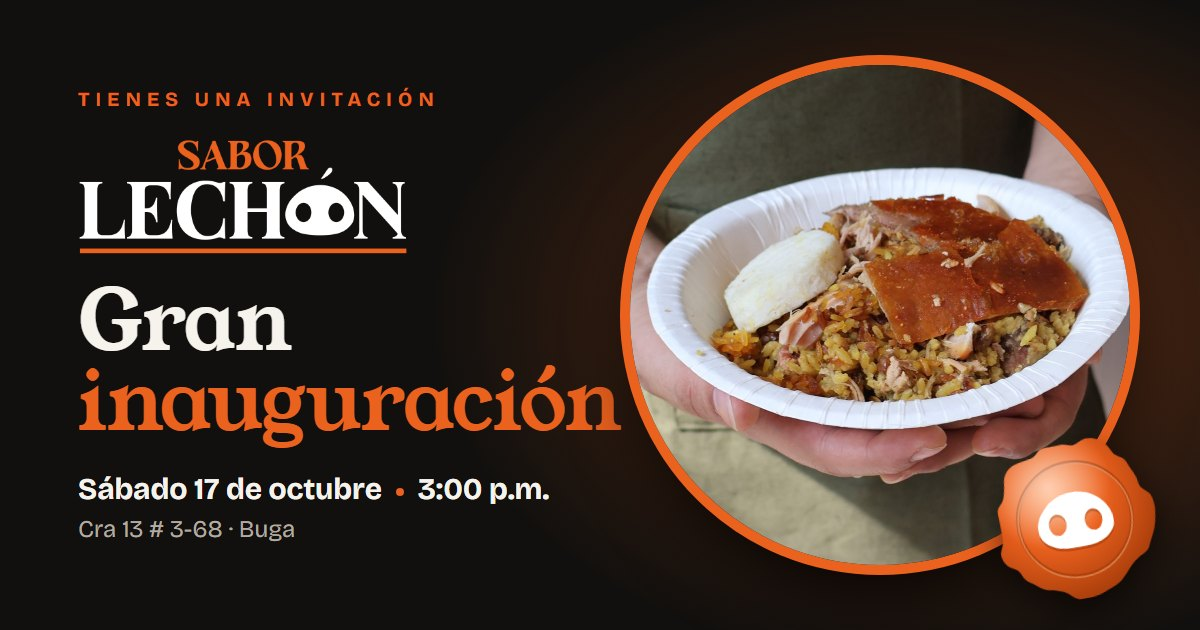
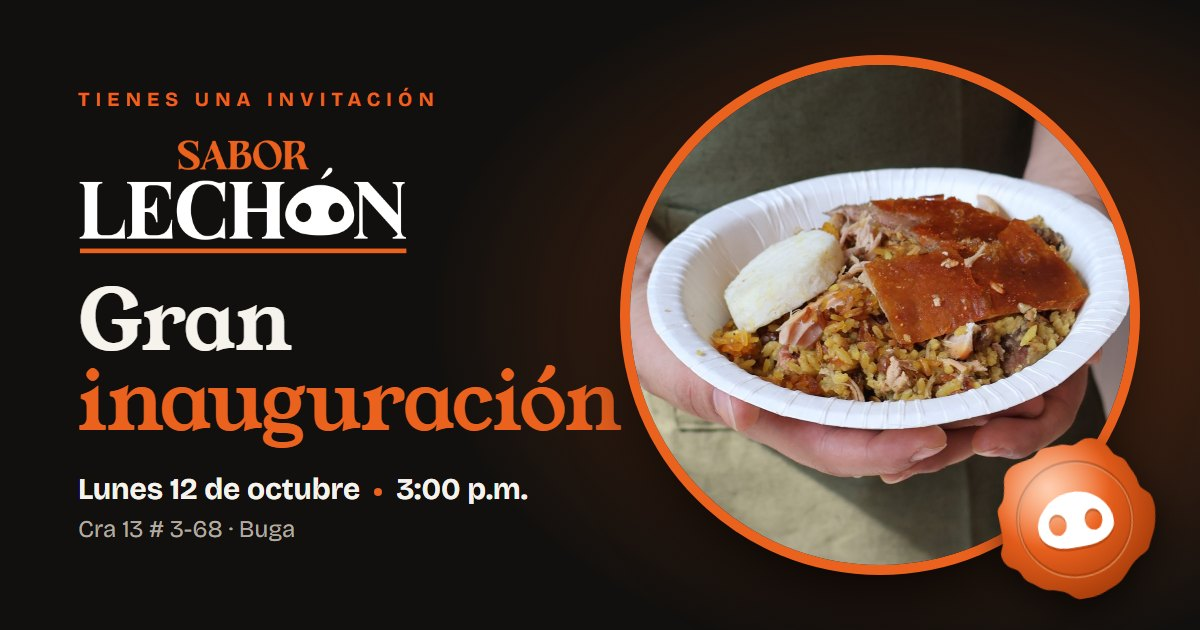
Invitación: Sabor Lechón (fecha al lunes 12 oct)

Changed region(s): [[0.0617, 0.754, 0.4625, 0.8143]]

diff --git a/sabor-lechon/inauguracion/index.html b/sabor-lechon/inauguracion/index.html
@@ -5,14 +5,14 @@
 <meta name="viewport" content="width=device-width, initial-scale=1, viewport-fit=cover">
 <title>Gran inauguración · Sabor Lechón</title>
 <link rel="icon" href="/logo.ico" sizes="any">
-<meta name="description" content="Sabor Lechón te invita a su gran inauguración: sábado 17 de octubre, 3:00 p.m. Cra 13 # 3-68, Buga.">
+<meta name="description" content="Sabor Lechón te invita a su gran inauguración: lunes 12 de octubre, 3:00 p.m. Cra 13 # 3-68, Buga.">
 <meta name="robots" content="noindex, nofollow">
 <meta name="theme-color" content="#12100E">
 
 <meta property="og:type" content="website">
 <meta property="og:locale" content="es_CO">
 <meta property="og:title" content="Te invitamos a la gran inauguración de Sabor Lechón">
-<meta property="og:description" content="Sábado 17 de octubre · 3:00 p.m. · Cra 13 # 3-68, Buga">
+<meta property="og:description" content="Lunes 12 de octubre · 3:00 p.m. · Cra 13 # 3-68, Buga">
 <meta property="og:url" content="https://cotizaciones.blackmouth.agency/sabor-lechon/inauguracion/">
 <meta property="og:image" content="https://cotizaciones.blackmouth.agency/sabor-lechon/inauguracion/og.jpg">
 <meta property="og:image:width" content="1200">
@@ -512,7 +512,7 @@ button{font:inherit;color:inherit;cursor:pointer}
       <circle cx="50" cy="50" r="46" fill="none" stroke="currentColor" stroke-width="2.4"/>
       <circle cx="50" cy="50" r="29" fill="none" stroke="currentColor" stroke-width="1.4"/>
       <text><textPath href="#pm-arc" textLength="228" lengthAdjust="spacing">INAUGURACIÓN · SABOR LECHÓN · BUGA ·</textPath></text>
-      <text x="50" y="47" text-anchor="middle" style="font-size:13px;letter-spacing:.5px">17·10</text>
+      <text x="50" y="47" text-anchor="middle" style="font-size:13px;letter-spacing:.5px">12·10</text>
       <text x="50" y="61" text-anchor="middle" style="font-size:9px">2026</text>
     </svg>
     <button class="seal" id="seal" type="button" aria-label="Romper el sello y abrir la invitación">
@@ -545,14 +545,14 @@ button{font:inherit;color:inherit;cursor:pointer}
       </button>
       <p class="hero__lead">te invita a su</p>
       <h1 class="hero__title"><span class="t1">Gran</span><span class="t2">inauguración</span></h1>
-      <p class="hero__pill">Sáb 17 oct <i></i> 3:00 p.m. <i></i> Buga</p>
+      <p class="hero__pill">Lun 12 oct <i></i> 3:00 p.m. <i></i> Buga</p>
       <div class="cue" aria-hidden="true"><svg><use href="#snout"/></svg>Desliza</div>
     </div>
 
     <div class="hero__date" aria-hidden="true">
-      <span class="hd__day" id="hdDay">17</span>
+      <span class="hd__day" id="hdDay">12</span>
       <span class="hd__month" id="hdMonth">Octubre</span>
-      <span class="hd__meta" id="hdMeta">Sábado <i></i> 3:00 p.m.</span>
+      <span class="hd__meta" id="hdMeta">Lunes <i></i> 3:00 p.m.</span>
     </div>
     <div class="hero__wipe" id="heroWipe"></div>
   </div>
@@ -579,7 +579,7 @@ button{font:inherit;color:inherit;cursor:pointer}
       <div class="cd"><span class="cd__n" id="cd-m">00</span><span class="cd__l">Min</span></div>
       <div class="cd"><span class="cd__n" id="cd-s">00</span><span class="cd__l">Seg</span></div>
     </div>
-    <p class="count__date reveal"><strong>Sábado 17 de octubre de 2026</strong> · 3:00 p.m.</p>
+    <p class="count__date reveal"><strong>Lunes 12 de octubre de 2026</strong> · 3:00 p.m.</p>
   </div>
 </section>
 
@@ -610,8 +610,8 @@ button{font:inherit;color:inherit;cursor:pointer}
             <span class="ch ch--sm" style="--i:0">La</span>
             <span class="ch ch--title" style="--i:1">INAUGURACIÓN</span>
             <span class="ch ch--orn" style="--i:2"><svg viewBox="0 0 200 12" preserveAspectRatio="none"><path d="M2 6h78M120 6h78M88 6c4-6 8-6 12 0s8 6 12 0M100 1v10"/></svg></span>
-            <span class="ch ch--script" style="--i:3">sábado</span>
-            <span class="ch ch--day" style="--i:4">17</span>
+            <span class="ch ch--script" style="--i:3">lunes</span>
+            <span class="ch ch--day" style="--i:4">12</span>
             <span class="ch ch--month" style="--i:5">DE OCTUBRE</span>
             <span class="ch ch--hour" style="--i:6">3:00 P.M.</span>
             <span class="ch ch--small" style="--i:7">y por supuesto...</span>
@@ -638,7 +638,7 @@ button{font:inherit;color:inherit;cursor:pointer}
     <span class="w--o">Dorado</span><i class="wall__dot"></i><span class="w--t">Raíz</span><img class="pill" src="media/pared.jpg" alt="" loading="lazy"><span class="w--line">Fuego</span><i class="wall__dot"></i><span class="w--o">Dorado</span><i class="wall__dot"></i><span class="w--t">Raíz</span><img class="pill" src="media/fachada.jpg" alt="" loading="lazy"><span class="w--line">Fuego</span>
   </div>
   <div class="wall__row" data-speed="-1" aria-hidden="true">
-    <span class="w--t">Lechón</span><i class="wall__dot"></i><span class="w--o">17·10</span><i class="wall__dot"></i><span class="w--line">Buga</span><img class="pill" src="media/mostrador.jpg" alt="" loading="lazy"><span class="w--t">Lechón</span><i class="wall__dot"></i><span class="w--o">17·10</span><i class="wall__dot"></i><span class="w--line">Buga</span>
+    <span class="w--t">Lechón</span><i class="wall__dot"></i><span class="w--o">12·10</span><i class="wall__dot"></i><span class="w--line">Buga</span><img class="pill" src="media/mostrador.jpg" alt="" loading="lazy"><span class="w--t">Lechón</span><i class="wall__dot"></i><span class="w--o">12·10</span><i class="wall__dot"></i><span class="w--line">Buga</span>
   </div>
 </section>
 
@@ -676,13 +676,13 @@ button{font:inherit;color:inherit;cursor:pointer}
           <div class="ticket__head"><img src="media/logo.png" alt="Sabor Lechón" loading="lazy"><span>Pase de<br>inauguración</span></div>
           <dl class="ticket__grid">
             <div><dt>Invitado</dt><dd id="ticketName">Tú</dd></div>
-            <div><dt>Fecha</dt><dd>Sáb 17 oct</dd></div>
+            <div><dt>Fecha</dt><dd>Lun 12 oct</dd></div>
             <div><dt>Hora</dt><dd>3:00 p.m.</dd></div>
             <div><dt>Lugar</dt><dd>Cra 13 # 3-68, Buga</dd></div>
           </dl>
         </div>
         <div class="ticket__stub">
-          <span class="stub__no"><small>Pase</small>Nº 17·10·26</span>
+          <span class="stub__no"><small>Pase</small>Nº 12·10·26</span>
           <span class="barcode" aria-hidden="true"></span>
         </div>
         <svg class="stamp" viewBox="0 0 120 120" aria-hidden="true">
@@ -770,7 +770,7 @@ button{font:inherit;color:inherit;cursor:pointer}
 
 <footer class="foot">
   <img src="media/logo.png" alt="Sabor Lechón" loading="lazy">
-  <p>Te esperamos el sábado 17 de octubre a las 3:00 p.m. en la Cra 13 # 3-68, Buga.</p>
+  <p>Te esperamos el lunes 12 de octubre a las 3:00 p.m. en la Cra 13 # 3-68, Buga.</p>
   <div class="socials">
     <a href="https://www.instagram.com/sabor_lechon" rel="noopener" aria-label="Instagram de Sabor Lechón"><svg class="ico"><use href="#i-ig"/></svg></a>
     <a href="https://www.tiktok.com/@sabor_lechon" rel="noopener" aria-label="TikTok de Sabor Lechón"><svg class="ico"><use href="#i-tt"/></svg></a>
@@ -800,8 +800,8 @@ const easeIO = t => t < .5 ? 4 * t * t * t : 1 - Math.pow(-2 * t + 2, 3) / 2;
 
 /* ---------- Datos del evento ---------- */
 const EVENTO = {
-  inicio: new Date('2026-10-17T15:00:00-05:00'),
-  fin: new Date('2026-10-17T21:00:00-05:00'),
+  inicio: new Date('2026-10-12T15:00:00-05:00'),
+  fin: new Date('2026-10-12T21:00:00-05:00'),
   titulo: 'Gran inauguración de Sabor Lechón',
   lugar: 'Sabor Lechón, Cra 13 # 3-68, Guadalajara de Buga, Valle del Cauca',
   maps: 'https://www.google.com/maps/place/Sabor+Lech%C3%B3n/@3.8970245,-76.304268,17z/data=!3m1!4b1!4m6!3m5!1s0x8e39e70030306611:0x8525509f26263bfc!8m2!3d3.8970245!4d-76.3016931!16s%2Fg%2F11nvzkjx_q',
@@ -1323,7 +1323,7 @@ $('#ics').addEventListener('click', () => {
   const ics = [
     'BEGIN:VCALENDAR', 'VERSION:2.0', 'PRODID:-//Sabor Lechon//Inauguracion//ES', 'CALSCALE:GREGORIAN', 'METHOD:PUBLISH',
     'BEGIN:VEVENT',
-    'UID:inauguracion-20261017@saborlechon',
+    'UID:inauguracion-20261012@saborlechon',
     'DTSTAMP:' + fmt(new Date()),
     'DTSTART:' + fmt(EVENTO.inicio),
     'DTEND:' + fmt(calFin),
@@ -1389,12 +1389,12 @@ $('#rsvp').addEventListener('submit', e => {
   const nombre = needName();
   if (!nombre) return;
   const quienes = n === 1 ? 'Voy yo.' : 'Vamos ' + n + ' personas.';
-  goWhatsApp('¡Hola, Sabor Lechón! Soy ' + nombre + '. Confirmo mi asistencia a la gran inauguración del sábado 17 de octubre a las 3:00 p.m. ' + quienes, e.submitter || $('.cta'));
+  goWhatsApp('¡Hola, Sabor Lechón! Soy ' + nombre + '. Confirmo mi asistencia a la gran inauguración del lunes 12 de octubre a las 3:00 p.m. ' + quienes, e.submitter || $('.cta'));
 });
 $('#decline').addEventListener('click', e => {
   const nombre = needName();
   if (!nombre) return;
-  location.href = 'https://wa.me/' + EVENTO.whatsapp + '?text=' + encodeURIComponent('¡Hola, Sabor Lechón! Soy ' + nombre + '. Gracias por la invitación a la inauguración del 17 de octubre. Esta vez no puedo acompañarlos, pero les deseo muchos éxitos.');
+  location.href = 'https://wa.me/' + EVENTO.whatsapp + '?text=' + encodeURIComponent('¡Hola, Sabor Lechón! Soy ' + nombre + '. Gracias por la invitación a la inauguración del 12 de octubre. Esta vez no puedo acompañarlos, pero les deseo muchos éxitos.');
 });
 
 /* ---------- Inicio ---------- */
